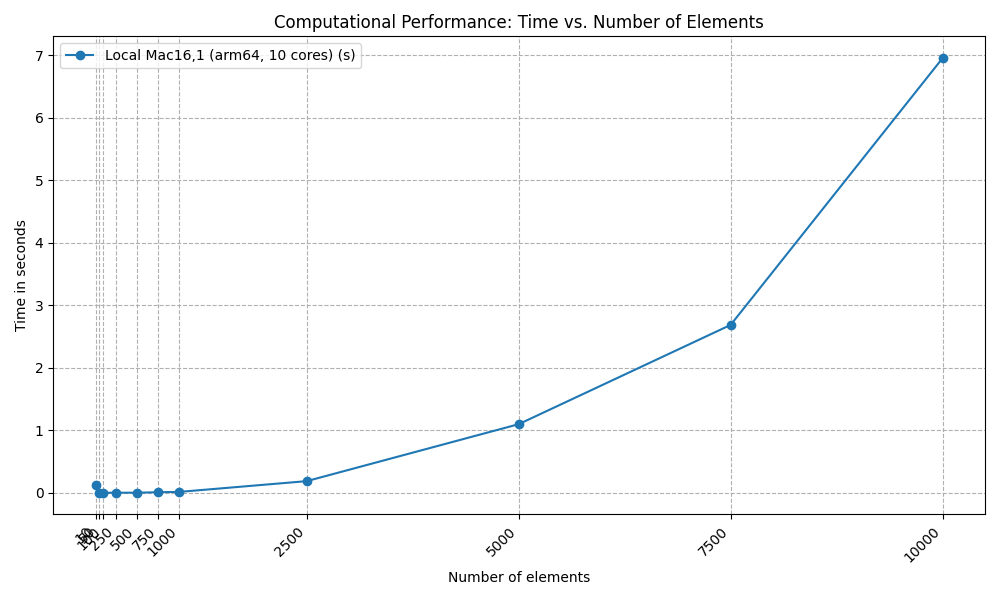
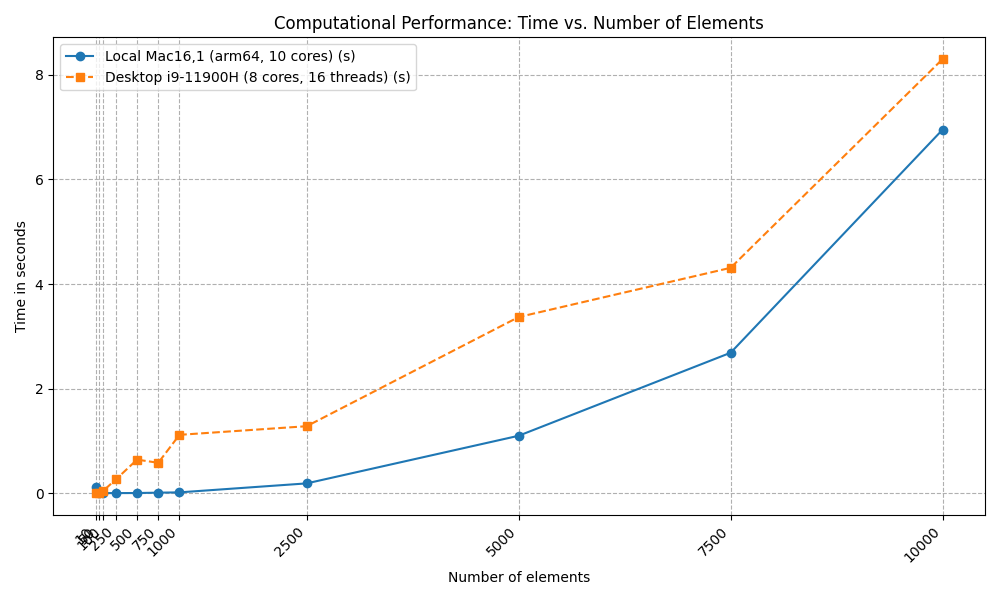
completion of parallel

diff --git a/homework/parallel/generate_graph.py b/homework/parallel/generate_graph.py
@@ -3,14 +3,17 @@ import numpy as np
 
 elements = np.array([10, 50, 100, 250, 500, 750, 1000, 2500, 5000, 7500, 10000])
 times = np.array([0.1246023178100586, 0.002122163772583008, 0.0004119873046875, 0.0005459785461425781, 0.0019719600677490234, 0.008533000946044922, 0.014367818832397461, 0.18611598014831543, 1.0972058773040771, 2.685497999191284, 6.95436692237854])
+desktop_times = np.array([0.0011250972747802734, 0.0022695064544677734, 0.04288673400878906, 0.26164984703063965, 0.6407413482666016, 0.5799391269683838, 1.1149439811706543, 1.279815673828125, 3.3680930137634277, 4.310067415237427, 8.303884029388428])
 
 ## hw.model: Mac16,1
 ## hw.machine: arm64
 ## hw.ncpu: 10
 cpu_name = "Local Mac16,1 (arm64, 10 cores)"
+desktop_cpu_name = "Desktop i9-11900H (8 cores, 16 threads)"
 
 plt.figure(figsize=(10, 6))
 plt.plot(elements, times, marker='o', linestyle='-', label=f"{cpu_name} (s)")
+plt.plot(elements, desktop_times, marker='s', linestyle='--', label=f"{desktop_cpu_name} (s)")
 
 plt.xlabel("Number of elements")
 plt.ylabel("Time in seconds")
